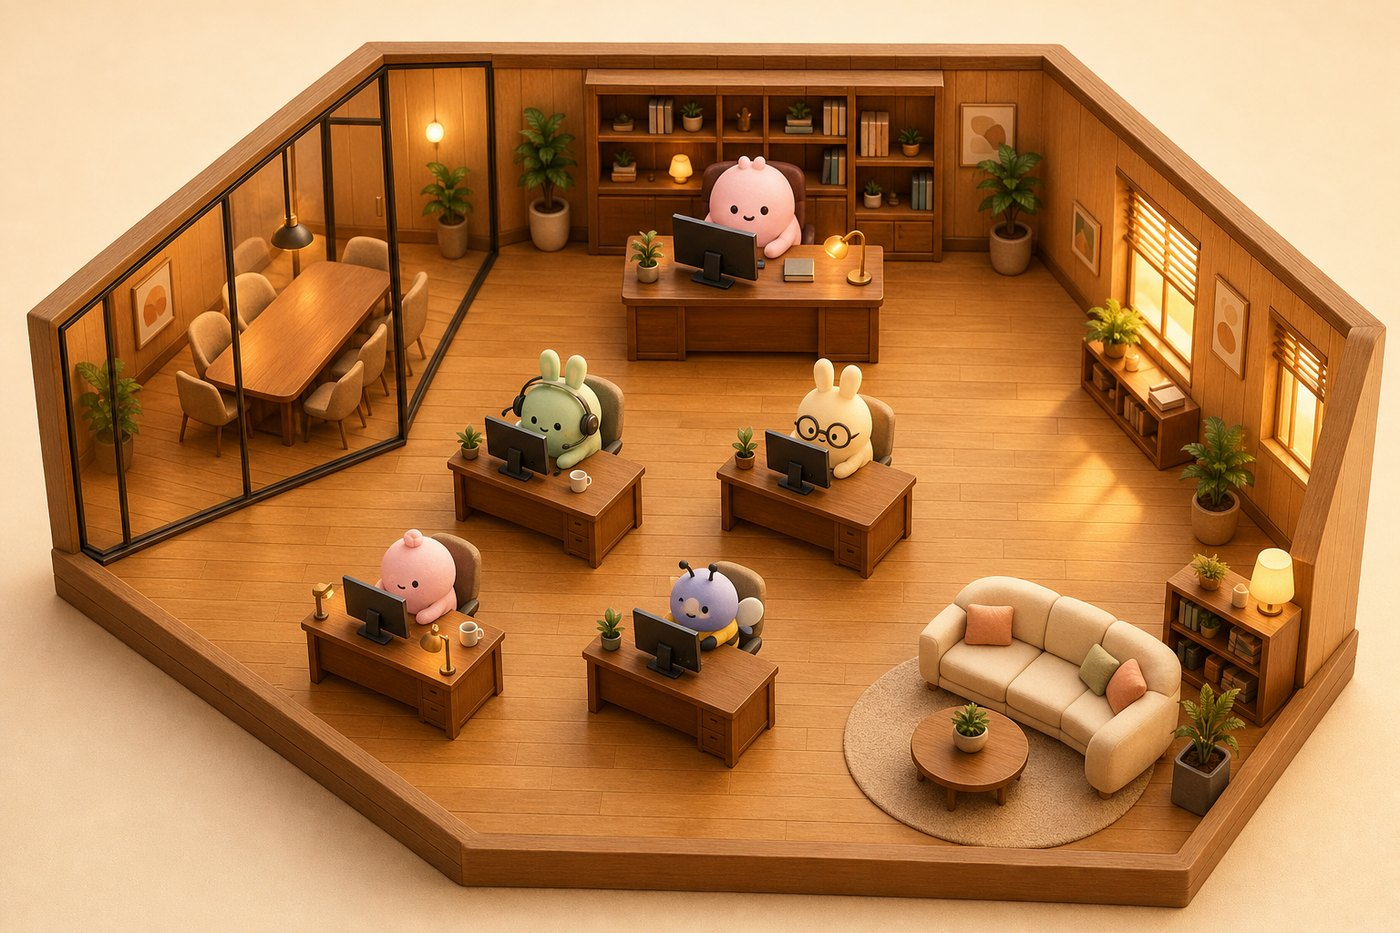
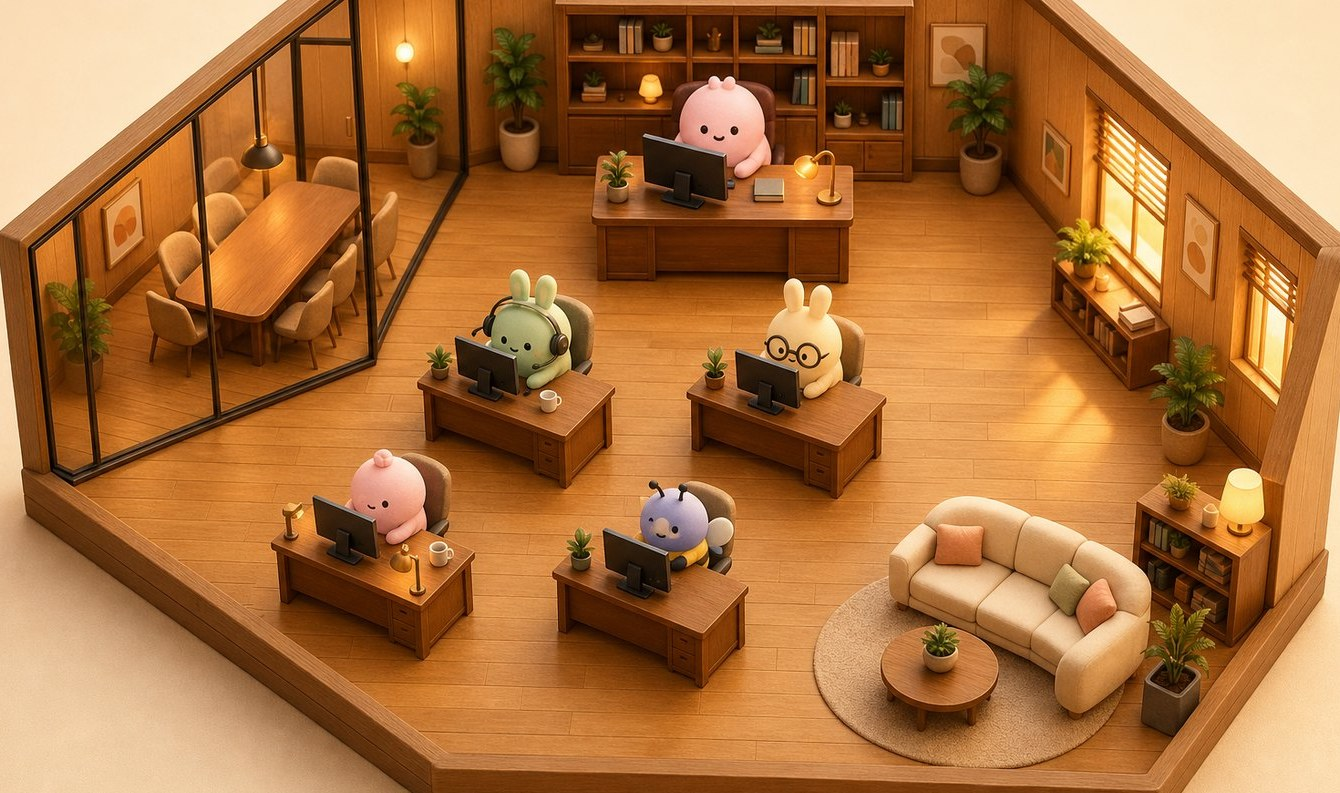
polish: 오피스 일러스트 프레임 크롭 — 방이 화면을 채우게

diff --git a/index.html b/index.html
@@ -413,13 +413,13 @@
 
       <div class="map-card">
         <div class="map-frame" id="map-frame">
-          <img src="assets/office-3d.jpg" alt="따뜻한 원목 톤의 3D 아이소메트릭 합동 비서실 — 회의실, 지휘 책상, 팀원 책상, 라운지" width="1400" height="933">
-          <button class="pill moving" type="button" data-room="chuchu" style="left:52%;top:30%;animation-delay:0s"><span class="em" aria-hidden="true">🎯</span>초큐티 (지휘실)</button>
-          <button class="pill moving" type="button" data-room="haram" style="left:26%;top:43%;animation-delay:-1.2s"><span class="em" aria-hidden="true">🐰</span>하람 비서</button>
-          <button class="pill moving" type="button" data-room="keyring" style="left:72%;top:47%;animation-delay:-2.1s"><span class="em" aria-hidden="true">🔑</span>키링</button>
-          <button class="pill moving" type="button" data-room="vee" style="left:55%;top:66%;animation-delay:-2.9s"><span class="em" aria-hidden="true">🐝</span>부이</button>
+          <img src="assets/office-3d.jpg" alt="따뜻한 원목 톤의 3D 아이소메트릭 합동 비서실 — 회의실, 지휘 책상, 팀원 책상, 라운지" width="1340" height="793">
+          <button class="pill moving" type="button" data-room="chuchu" style="left:54%;top:22%;animation-delay:0s"><span class="em" aria-hidden="true">🎯</span>초큐티 (지휘실)</button>
+          <button class="pill moving" type="button" data-room="haram" style="left:36%;top:45%;animation-delay:-1.2s"><span class="em" aria-hidden="true">🐰</span>하람 비서</button>
+          <button class="pill moving" type="button" data-room="keyring" style="left:64%;top:45%;animation-delay:-2.1s"><span class="em" aria-hidden="true">🔑</span>키링</button>
+          <button class="pill moving" type="button" data-room="vee" style="left:56%;top:70%;animation-delay:-2.9s"><span class="em" aria-hidden="true">🐝</span>부이</button>
           <button class="pill" type="button" data-room="meeting" style="left:16%;top:26%"><span class="em" aria-hidden="true">🏛</span>대회의실</button>
-          <button class="pill" type="button" data-room="lounge" style="left:71%;top:79%"><span class="em" aria-hidden="true">☕</span>라운지</button>
+          <button class="pill" type="button" data-room="lounge" style="left:73%;top:84%"><span class="em" aria-hidden="true">☕</span>라운지</button>
         </div>
         <p class="map-cap">캐릭터 배지를 탭하면 오늘 기준 진행 상황이 열려요</p>
       </div>
@@ -835,7 +835,7 @@
     var label = dispName(c);
     el.innerHTML =
       "<div class='d-top'>" +
-        "<span class='d-mark' aria-hidden='true'>" + esc(c.mark || label.charAt(0)) + "</span>" +
+        "<span class='d-mark' aria-hidden='true'>" + esc(c.id === "vee" ? "ㅂ" : (c.mark || label.charAt(0))) + "</span>" +
         "<div class='d-name'><h3>" + esc(label) + "</h3><p>" + esc(c.device || "") + " · " + esc(c.role || "") + "</p></div>" +
         "<span class='state" + (idle ? " idle" : "") + "'><i class='sd'></i>" + esc(c.state || "대기") + "</span>" +
       "</div>" +
